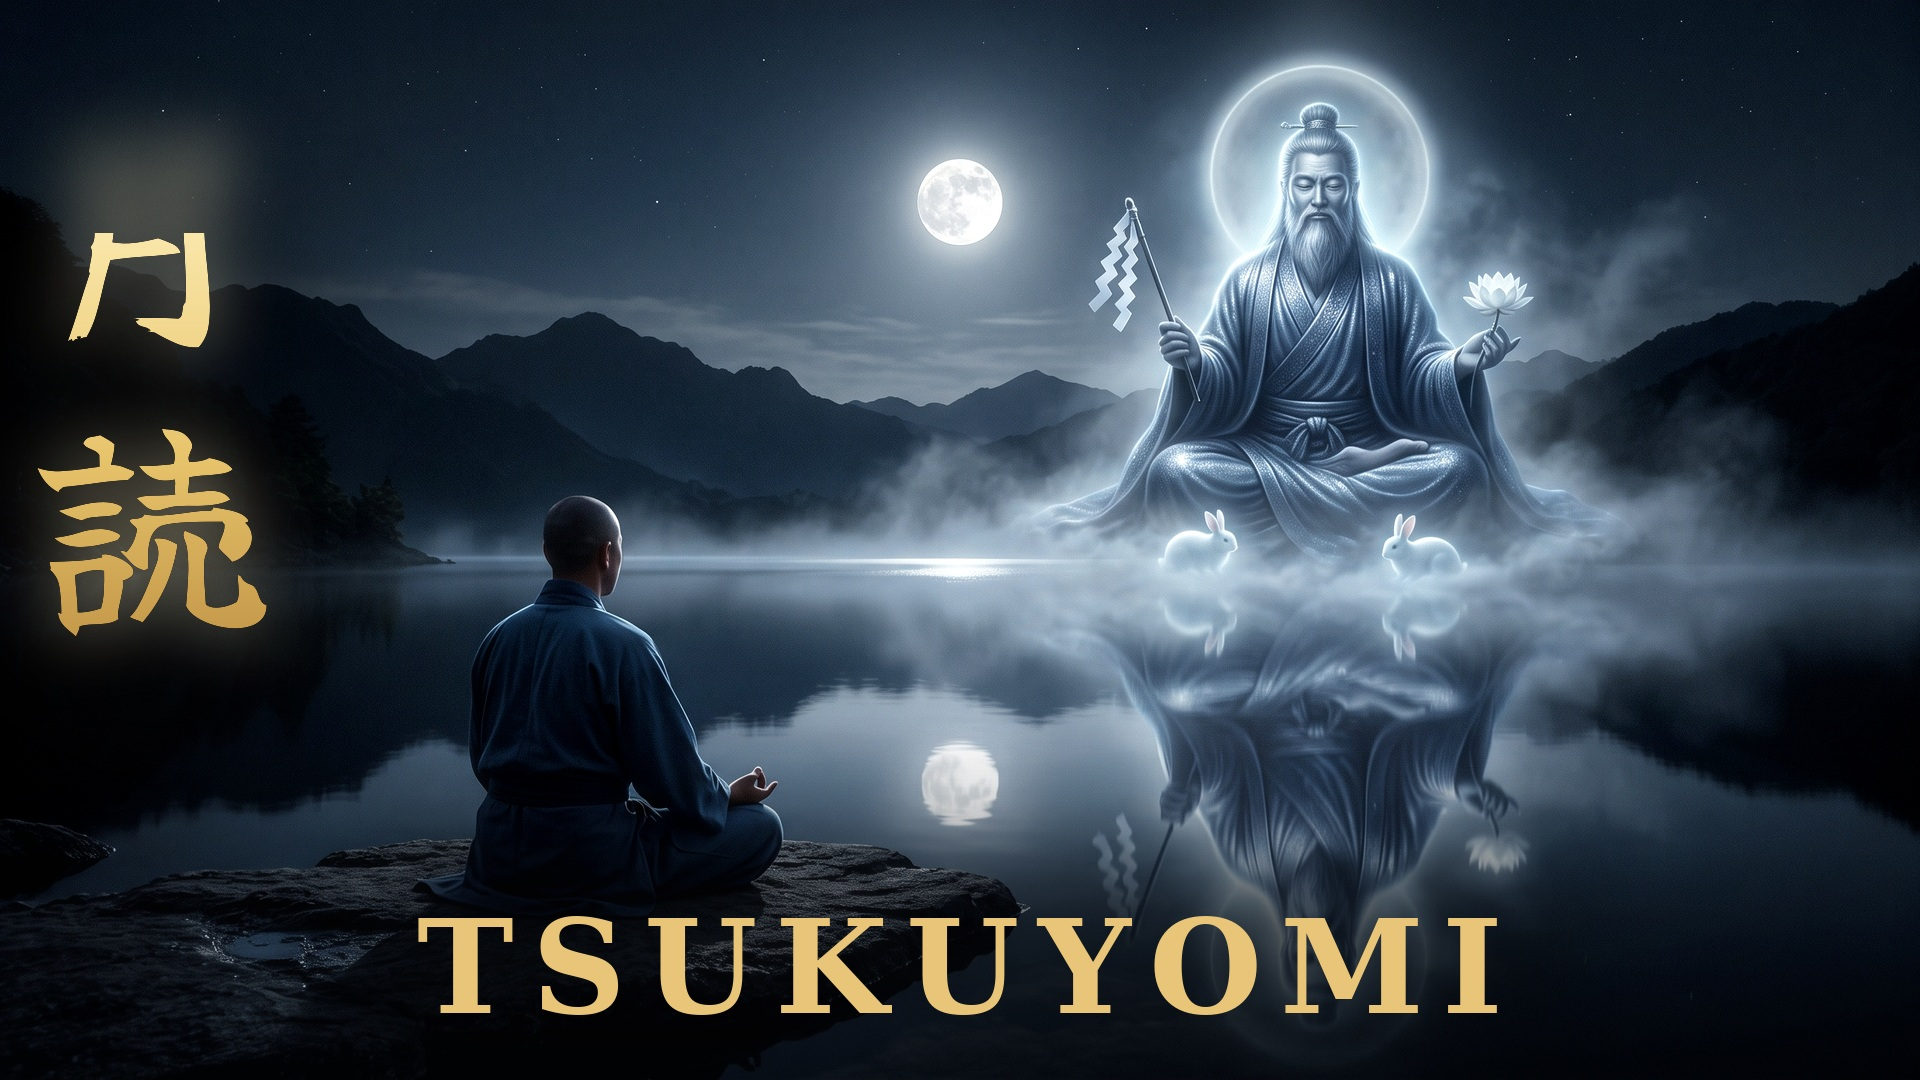
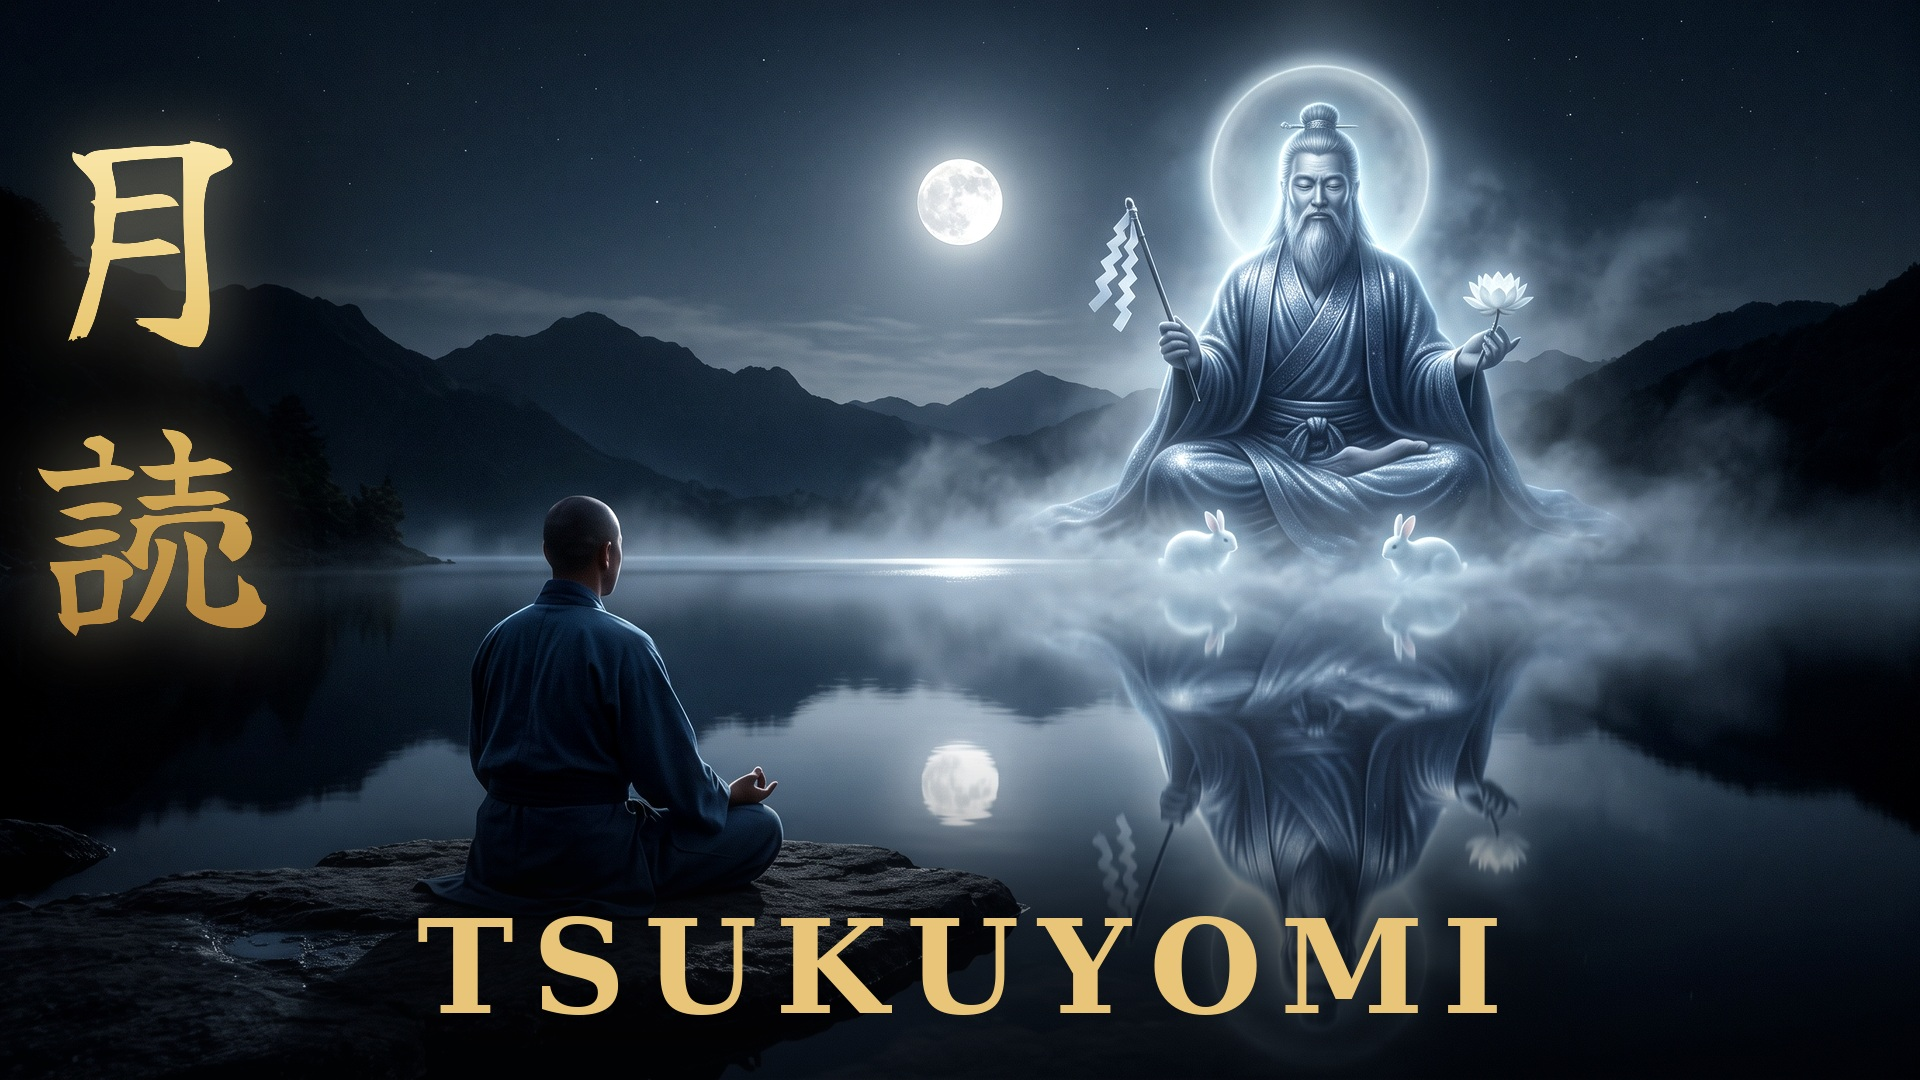
Fix real bug in gold_kanji_v shared across KARYU/SEIRYU/TSUKUYOMI thumbnails: vertical bounds tracked y+t/y+b instead of y/y+(b-t), shifting the gradient paint region away from the actual glyph and leaving interior strokes transparent (visible as a hollow top character, worst on TSUKUYOMI's 月). Root

Changed region(s): [[0.0312, 0.1222, 0.125, 0.3361]]

diff --git a/stillwave/assets/seiryu-compose-thumb.py b/stillwave/assets/seiryu-compose-thumb.py
@@ -64,7 +64,7 @@ def gold_kanji_v(im, chars, size, cx, top_y, pitch, halo=30):
         l, t, r, b = f.getbbox(ch)
         y = top_y + i * pitch
         md.text((cx - (l + (r - l) / 2), y - t), ch, font=f, fill=255)
-        top, bot = min(top, y + t), max(bot, y + b)
+        top, bot = min(top, y), max(bot, y + (b - t))
     sc = Image.new("RGBA", (W, H), (0, 0, 0, 0))
     ImageDraw.Draw(sc).rounded_rectangle((cx - 140, top - 40, cx + 140, bot + 50),
                                          radius=110, fill=(5, 6, 9, 150))

diff --git a/stillwave/assets/tsukuyomi-compose-thumb.py b/stillwave/assets/tsukuyomi-compose-thumb.py
@@ -60,7 +60,7 @@ def gold_kanji_v(im, chars, size, cx, top_y, pitch, halo=30):
         l, t, r, b = f.getbbox(ch)
         y = top_y + i * pitch
         md.text((cx - (l + (r - l) / 2), y - t), ch, font=f, fill=255)
-        top, bot = min(top, y + t), max(bot, y + b)
+        top, bot = min(top, y), max(bot, y + (b - t))
     sc = Image.new("RGBA", (W, H), (0, 0, 0, 0))
     ImageDraw.Draw(sc).rounded_rectangle((cx - 140, top - 40, cx + 140, bot + 50),
                                          radius=110, fill=(4, 5, 8, 150))

diff --git a/stillwave/assets/karyu-compose-thumb.py b/stillwave/assets/karyu-compose-thumb.py
@@ -70,7 +70,7 @@ def gold_kanji_v(im, chars, size, cx, top_y, pitch, halo=26):
         l, t, r, b = f.getbbox(ch)
         y = top_y + i * pitch
         md.text((cx - (l + (r - l) / 2), y - t), ch, font=f, fill=255)
-        top, bot = min(top, y + t), max(bot, y + b)
+        top, bot = min(top, y), max(bot, y + (b - t))
     total = bot - top
     sc = Image.new("RGBA", (W, H), (0, 0, 0, 0))
     ImageDraw.Draw(sc).rounded_rectangle((cx - 140, top - 40, cx + 140, bot + 50),
